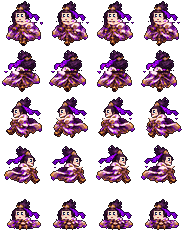
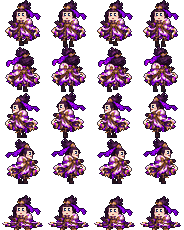
Hero walk redone: clean pixel bodies with hand-drawn legs and shoes stepping (contact/passing), 1 px bob and hem swing; feet stand exactly on the ground point (no floating above the shadow)
Claude-Session: https://claude.ai/code/session_01L2ryCMVY95yrrrnw2USKSA

diff --git a/js/89-pixel-heroes.js b/js/89-pixel-heroes.js
@@ -1,6 +1,6 @@
 /* Hand-drawn pixel heroes (pixel mode only). Atlases from tools/pixel/build_atlas.py:
-   4 columns × 5 rows of 46×46 cells (figure 42 px). Walk rows are real 4-step walk cycles from the
-   painted motion atlas with the v3 pixel heads (tools/pixel/build_heroes_v4.py) — front, back, walking left, walking
+   4 columns × 5 rows of 46×46 cells (figure 42 px). Walk rows: contact, passing, contact, passing with
+   hand-drawn pixel legs and shoes (tools/pixel/build_heroes_v5.py) — front, back, walking left, walking
    right, seated meditation. Drawn at a whole number of screen pixels per art pixel and snapped
    to the pixel grid so every hero stays sharp. Classes without a pixel atlas keep their painted sprites. */
 (function(){
@@ -19,10 +19,14 @@
   const id=s.key+row+'/'+col;let c=frames.get(id);if(c)return c;
   c=document.createElement('canvas');c.width=CW;c.height=CH;c.getContext('2d').drawImage(s.image,col*CW,row*CH,CW,CH,0,0,CW,CH);frames.set(id,c);return c;
  }
+ // The ground point of the actor being drawn (drawChar gets the feet position as x,y).
+ let ground=null;
+ if(typeof drawChar==='function'){const dc=drawChar;drawChar=function(ctx,x,y,...rest){const before=ground;ground=y;try{return dc.call(this,ctx,x,y,...rest);}finally{ground=before;}};}
  const base=characterMasks.drawBody;
  characterMasks.drawBody=function(ctx,body,ap,direction,x,y,width,height,feet,motion={}){
   const s=sheet(ap);if(!s)return base.apply(this,arguments);
-  const fx=feet?.x??x+width/2,fy=feet?.y??y+height;
+  // Feet stand exactly on the actor's ground point (painted-art offsets and bob are ignored).
+  const fx=feet?.x??x+width/2,fy=ground??feet?.y??y+height;
   const fit=window.characterFit?.(ap,direction,fx,fy,height),figure=fit?.H||height*.8;
   const t=motion.time??(worldMap.environmentClock||performance.now()/1000);
   const row=motion.meditating?4:(ROW[direction]??0),col=motion.meditating?Math.floor(t*1.6)%4:motion.moving?(Number.isFinite(motion.phase)?Math.floor(motion.phase/(Math.PI/2)+.5)%4:Math.floor(t*8)%4):0;

diff --git a/tools/pixel/build_heroes_v5.py b/tools/pixel/build_heroes_v5.py
@@ -1,0 +1,89 @@
+"""Pixel heroes v5: clean pixel bodies (v3: converted class art + hand-placed faces) with
+hand-drawn pixel feet that really step, a 1-pixel body bob and a swinging hem.
+Classic 4-frame walk: contact, passing, contact (other foot), passing.
+Atlas per class+gender: 4 columns x 5 rows of 46x46 cells (figure 42 px):
+rows = front, back, walking left, walking right, meditation.
+Run: python3 tools/pixel/build_heroes_v5.py -> Character/Pixel/<Class>-<Nam|Nu>.png"""
+import os,sys
+import numpy as np
+from PIL import Image
+HERE=os.path.dirname(os.path.abspath(__file__));sys.path.insert(0,HERE)
+from hero_convert import views
+import build_heroes_v3 as v3
+ROOT=os.path.normpath(os.path.join(HERE,'..','..'))
+CW=CH=46;FIG=42;FEET=3
+OUT=(22,14,28,255)
+def trim(img):return img.crop(img.getbbox())
+def shoe_colour(a):
+    rows=a[-FEET-2:].reshape(-1,4);rows=rows[rows[:,3]>0];rows=rows[(rows[:,:3].sum(1)>90)]
+    if not len(rows):return (60,44,60,255)
+    lum=rows[:,:3].sum(1);dark=rows[lum<=np.percentile(lum,35)]
+    c=np.median(dark[:,:3],axis=0).astype(int);return (int(c[0]),int(c[1]),int(c[2]),255)
+def put(a,x,y,c):
+    if 0<=y<a.shape[0] and 0<=x<a.shape[1]:a[y,x]=c
+def shoe(a,x,y,w,c,side=0):
+    """w-pixel wide shoe whose sole is on row y; side>0 points right, <0 left."""
+    hi=tuple(min(255,int(v*1.35)) for v in c[:3])+(255,)
+    for i in range(w):put(a,x+i,y,c);put(a,x+i,y-1,c)
+    put(a,x+(w-1 if side>=0 else 0),y-1,hi) if w>1 else None
+    for i in range(-1,w+1):put(a,x+i,y+1,OUT) if a[min(y+1,a.shape[0]-1),min(max(x+i,0),a.shape[1]-1),3]==0 else None
+    for yy in (y-1,y):
+        if a[yy,x-1,3]==0:put(a,x-1,yy,OUT)
+        if x+w<a.shape[1] and a[yy,x+w,3]==0:put(a,x+w,yy,OUT)
+    if a[y-2,x,3]==0:put(a,x,y-2,OUT)
+LEG=2   # visible legs between the hem and the shoes
+def leg(a,x,y0,y1,c):
+    for y in range(y0,y1+1):
+        for dx in (0,1):put(a,x+dx,y,c)
+        if a[y,x-1,3]==0:put(a,x-1,y,OUT)
+        if a[y,x+2,3]==0:put(a,x+2,y,OUT)
+def frame(body,view,f,c):
+    """body: RGBA array of the figure without its feet rows. Returns the frame array.
+    f: 0 contact (right foot ahead), 1 passing, 2 contact (left foot ahead), 3 passing."""
+    h,w=body.shape[:2];H=h+LEG+FEET+2;out=np.zeros((H,w+10,4),np.uint8)
+    lift=1 if f in (1,3) else 0                       # passing poses ride one pixel higher
+    b=body.copy();hem=max(3,h//7)
+    sway={0:1,2:-1}.get(f,0)
+    if view in ('trai','phai'):b[h-hem:]=np.roll(b[h-hem:],-sway*(1 if view=='phai' else -1),axis=1)
+    else:b[h-hem:]=np.roll(b[h-hem:],sway,axis=1)
+    top=1-lift+1
+    region=out[top:top+h,5:5+w];out[top:top+h,5:5+w]=np.where(b[...,3:4]>0,b,region)
+    ground=H-2;hemrow=top+h-1
+    m=out[hemrow]
+    cols=np.nonzero(m[...,3]>0)[0]
+    cx=(cols.min()+cols.max())/2 if len(cols) else (w+10)/2;span=(cols.max()-cols.min()+1) if len(cols) else w
+    pants=tuple(int(v*.8) for v in c[:3])+(255,);far=tuple(int(v*.62) for v in c[:3])+(255,)
+    if view in ('truoc','sau'):
+        d=max(2,round(span*.14));lx=int(round(cx-d-2));rx=int(round(cx+d-1))
+        # the foot that swings forward comes down a pixel lower (towards the viewer), the other lifts
+        ly=ground-(2 if f==2 else 0)+(0 if f!=0 else 0);ry=ground-(2 if f==0 else 0)
+        if view=='sau':ly,ry=ry,ly
+        for x,y in ((lx,ly),(rx,ry)):leg(out,x,hemrow+1,y-2,pants);shoe(out,x,y,3,c)
+    else:
+        s=1 if view=='phai' else -1;spread=[5,0,5,0][f]
+        lead=int(round(cx+s*spread/2))-1;trail=int(round(cx-s*spread/2))-1
+        if f in (1,3):lead,trail=int(round(cx))-1+s,int(round(cx))-2   # passing: legs together, back foot lifted
+        ty=ground-(2 if f in (1,3) else 0)
+        leg(out,trail,hemrow+1,ty-2,far);shoe(out,trail,ty,3,far,s)
+        leg(out,lead,hemrow+1,ground-2,pants);shoe(out,lead,ground,3,c,s)
+    return out
+def body_of(img):
+    a=np.array(trim(img));return a[:-FEET] if a.shape[0]>FEET+10 else a
+def place(arr,row,col,atlas):
+    im=Image.fromarray(arr);im=trim(im)
+    x=col*CW+(CW-im.width)//2;y=row*CH+CH-im.height;atlas.alpha_composite(im,(max(0,x),max(0,y)))
+def build(cls,g):
+    st=views(cls,g,FIG);k=FIG/60;fb={d:v3.scaled(b,k) for d,b in v3.FACES[(cls,g)].items()}
+    front=v3.face(st['truoc'],g,'truoc',fb['truoc']);left=v3.face(st['trai'],g,'trai',fb['trai'])
+    vs={'truoc':front,'sau':st['sau'],'trai':left,'phai':left.transpose(Image.FLIP_LEFT_RIGHT)}
+    atlas=Image.new('RGBA',(CW*4,CH*5))
+    for row,view in enumerate(('truoc','sau','trai','phai')):
+        full=np.array(trim(vs[view]));c=shoe_colour(full);body=body_of(vs[view])
+        for col in range(4):place(frame(body,view,col,c),row,col,atlas)
+    for col,m in enumerate(v3.meditate(front)):atlas.alpha_composite(trim(m),(col*CW+(CW-trim(m).width)//2,4*CH+CH-trim(m).height))
+    return atlas
+if __name__=='__main__':
+    dest=os.path.join(ROOT,'Character','Pixel')
+    for cls in ('Kiem','Liem','Thuong','Quat'):
+        for g in ('Nam','Nu'):build(cls,g).save(os.path.join(dest,f'{cls}-{g}.png'),optimize=True)
+    print('ok')
